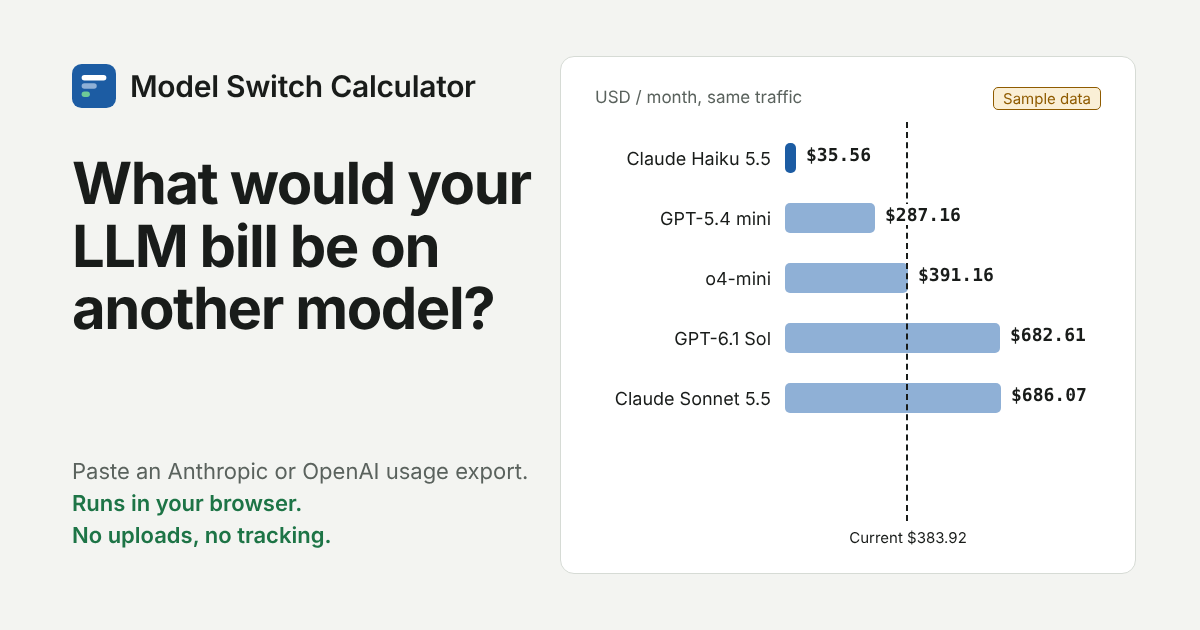
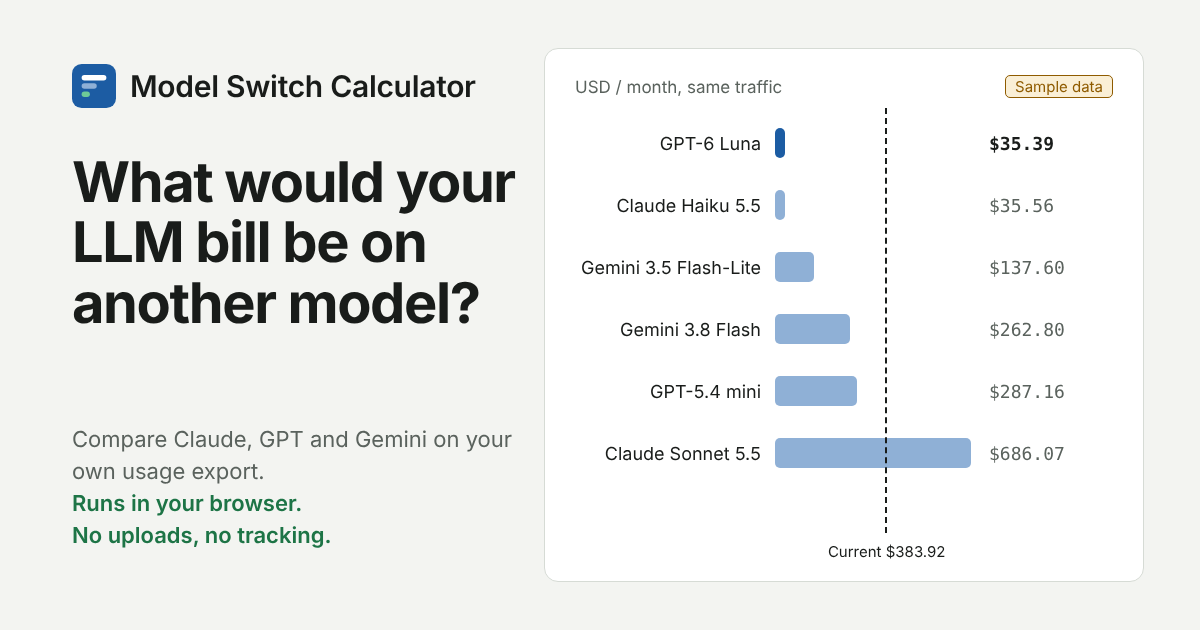
calc: phone-width compare table, chart label collisions, cheapest ties, v2 og.png
- Under 480px the compare table keeps model, cost and % visible
- Value labels no longer cross the Current line; long names shortened on phones
- Every model tied at the minimum gets Cheapest; none when usage is 0
- og.png re-rendered with v2 sample numbers (incl. Gemini)
- Clearer long-context note; o3/o4-mini no longer called older

Claude-Session: https://claude.ai/code/session_015XigFVCQSSHY1yMdRTDpZK

diff --git a/calc/index.html b/calc/index.html
@@ -150,6 +150,7 @@ td input[type=number]{width:84px;font:inherit;font-family:var(--font-mono);font-
 .chart .grid{stroke:var(--line-soft)}
 .chart .barr{fill:var(--bar)} .chart .barr.best{fill:var(--accent)}
 .chart .cur{stroke:var(--fg);stroke-dasharray:4 3}
+.chart text.val{paint-order:stroke;stroke:var(--surface);stroke-width:3px;stroke-linejoin:round}
 .chart .hit:hover+.barr,.chart g.b:hover .barr{opacity:.85}
 .notes{font-size:.86rem;color:var(--muted);padding-left:1.2em;margin:8px 0 0}
 .notes li{margin-bottom:4px}
@@ -197,8 +198,18 @@ details.legacy[open] summary{margin-bottom:8px}
 footer{color:var(--muted);font-size:.82rem;margin-top:36px;border-top:1px solid var(--line);padding-top:16px}
 footer p{margin:0 0 4px}
 @media (prefers-reduced-motion: reduce){html{scroll-behavior:auto}*{transition:none!important;animation:none!important}}
+.badge.ph{display:none}
 @media (max-width:480px){
   section.card{padding:14px}
+  #compare-table .sec{display:none}
+  #compare-table .badge.ph{display:inline-block}
+  #compare-table th,#compare-table td{padding:6px 6px}
+  #compare-table .mcell{white-space:normal;min-width:0}
+  #compare-table th{white-space:normal}
+  #compare-table{font-size:.84rem}
+  #compare-table th,#compare-table td{padding:6px 4px}
+  #compare-table td.num{font-size:.8rem}
+  #compare-table .mcell .badge{margin-top:2px}
   dl.stats{grid-template-columns:minmax(0,1fr)}
   .headline .v{font-size:1.15rem}
   .cta{width:100%;text-align:center}
@@ -315,7 +326,7 @@ footer p{margin:0 0 4px}
     </fieldset>
     <div class="tablewrap"><table id="price-table"></table></div>
     <details id="legacy-details" class="legacy">
-      <summary id="legacy-summary">Older models (<span id="legacy-count">0</span>)</summary>
+      <summary id="legacy-summary">More models (<span id="legacy-count">0</span>)</summary>
       <div class="tablewrap"><table id="price-table-legacy"></table></div>
     </details>
     <ul class="notes" id="price-notes"></ul>
@@ -690,7 +701,7 @@ const PRICES = {
       "cacheWrite": null,
       "status": "verified",
       "source": "https://developers.openai.com/api/docs/pricing",
-      "note": "o-series reasoning model (older)."
+      "note": "o-series reasoning model."
     },
     {
       "provider": "openai",
@@ -702,7 +713,7 @@ const PRICES = {
       "cacheWrite": null,
       "status": "verified",
       "source": "https://developers.openai.com/api/docs/pricing",
-      "note": "o-series reasoning model (older)."
+      "note": "o-series reasoning model."
     },
     {
       "provider": "google",
@@ -841,7 +852,7 @@ const PRICES = {
     "Anthropic prices were read today from the official pricing page (platform.claude.com/docs/en/about-claude/pricing). Model IDs come from platform.claude.com/docs/en/about-claude/models/overview and model-ids-and-versions. The claude-api skill was not used as a price source.",
     "Anthropic cacheWrite = 5-minute cache write (1.25x input). 1h write = 2x input. Cache read = 0.1x input by default, 0.05x on Opus 5.5 / Sonnet 5.5, and 0.025x on Fable 5.1 / Mythos 5.1.",
     "Anthropic Batch API: 50% off input and output. Stacks with caching. Fast mode is not available with Batch.",
-    "Anthropic long context: Claude 4.6+ models (except Haiku 5.5) get the full 1M context at standard pricing. Haiku 5.5 has two price tiers split at 100K prompt tokens.",
+    "Anthropic long context: Claude 4.6 and later models get the full 1M-token context window at their standard per-token price, with no long-context surcharge (a 900K-token request is billed at the same rate as a 9K-token request). Claude Haiku 5.5 is the exception: it has two price tiers, and a request whose prompt (including cache reads and writes) is over 100K tokens pays the higher tier.",
     "Anthropic inference_geo='us' applies a 1.1x multiplier (4.6+ models).",
     "Also listed but not included above: Claude Mythos 5.1 / Mythos 5 (limited availability, same prices as Fable 5.1 / Fable 5), Claude Fable 5 ($10/$50, cache read $1), and retired models Opus 4.1/4, Sonnet 4, Haiku 3.5.",
     "OpenAI prices were read today from the raw HTML of developers.openai.com/api/docs/pricing (platform.openai.com/docs/pricing redirects there, 301). The WebFetch summary had mis-transcribed the long-context columns; the figures here come from the raw data.",
@@ -1217,8 +1228,15 @@ const Logic = (() => {
       scenarios.push({ model: m, price: p, cost, delta, pct, isCurrent: currentIds.has(m.id) });
     }
     scenarios.sort((a, b) => a.cost - b.cost);
+    // Cheapest: every scenario whose cost equals the minimum at the displayed precision (cents),
+    // so models that show the same price all get the badge. None when there is no usage at all.
+    const cents = (v) => Math.round(v * 100);
+    const hasUsage = sumTok(tokens) > 0;
+    const minCents = scenarios.length ? cents(scenarios[0].cost) : null;
+    scenarios.forEach((sc) => { sc.isCheapest = hasUsage && cents(sc.cost) === minCents; });
+    const cheapestAll = scenarios.filter((sc) => sc.isCheapest);
     return { factor: f, tokens, current: breakdown.length ? current : null, currentComplete, coverage, unpricedModels, breakdown, scenarios, excluded,
-      cheapest: scenarios[0] || null };
+      cheapest: cheapestAll[0] || null, cheapestAll };
   }
 
   return { normKey, normModel, inferProvider, toNum, toDay, parseDelimited, classifyHeader, parseUsage, aggregate,
@@ -1510,24 +1528,26 @@ if (typeof document !== "undefined") (() => {
     const best = r.cheapest;
     $("headline").innerHTML =
       `<div><div class="k">Current cost${r.currentComplete ? "" : " (priced models only)"}</div><div class="v">${fmtUSD(cur)}</div></div>` +
-      (best ? `<div><div class="k">Cheapest option</div><div class="v">${esc(best.model.name)} ${fmtUSD(best.cost)}</div></div>` : "") +
+      (best ? `<div><div class="k">Cheapest option${r.cheapestAll.length > 1 ? ` (${r.cheapestAll.length}-way tie)` : ""}</div><div class="v">${r.cheapestAll.map((x) => esc(x.model.name)).join(" / ")} ${fmtUSD(best.cost)}</div></div>` : "") +
       (best && best.delta != null ? `<div><div class="k">Difference if you switch to it</div><div class="v ${best.delta < 0 ? "neg" : best.delta > 0 ? "pos" : ""}">${fmtSigned(best.delta)} (${fmtPct(best.pct)})</div></div>` : "");
 
     // compare table
-    let html = `<thead><tr><th class="num">#</th><th>Target model</th><th class="num">Cost</th><th class="num">vs current</th><th class="num">vs current (%)</th><th>Price</th></tr></thead><tbody>`;
+    // .sec columns (#, vs current $, Price) are hidden at phone width so Cost and % stay visible
+    let html = `<thead><tr><th class="num sec">#</th><th>Target model</th><th class="num">Cost</th><th class="num sec">vs current</th><th class="num">vs current (%)</th><th class="sec">Price</th></tr></thead><tbody>`;
     r.scenarios.forEach((s, i) => {
-      const cls = [s === best ? "cheapest" : "", s.isCurrent ? "current" : ""].join(" ").trim();
-      const tags = (s === best ? ` <span class="badge ok">Cheapest</span>` : "") + (s.isCurrent ? ` <span class="badge acc">In use now</span>` : "");
-      html += `<tr class="${cls}"><td class="num">${i + 1}</td><td><span class="prov">${esc(PROV[s.model.provider] || s.model.provider)}</span><span class="mname">${esc(s.model.name)}</span>${tags}</td>` +
-        `<td class="num">${fmtUSD(s.cost)}</td><td class="num ${s.delta < 0 ? "neg" : s.delta > 0 ? "pos" : ""}">${fmtSigned(s.delta)}</td>` +
+      const cls = [s.isCheapest ? "cheapest" : "", s.isCurrent ? "current" : ""].join(" ").trim();
+      const tags = (s.isCheapest ? ` <span class="badge ok">Cheapest</span>` : "") + (s.isCurrent ? ` <span class="badge acc">In use now</span>` : "") +
+        (s.price.kind === "manual" ? ` <span class="badge warn ph">Manual</span>` : "");
+      html += `<tr class="${cls}"><td class="num sec">${i + 1}</td><td class="mcell"><span class="prov">${esc(PROV[s.model.provider] || s.model.provider)}</span><span class="mname">${esc(s.model.name)}</span>${tags}</td>` +
+        `<td class="num">${fmtUSD(s.cost)}</td><td class="num sec ${s.delta < 0 ? "neg" : s.delta > 0 ? "pos" : ""}">${fmtSigned(s.delta)}</td>` +
         `<td class="num ${s.pct < 0 ? "neg" : s.pct > 0 ? "pos" : ""}">${fmtPct(s.pct)}</td>` +
-        `<td>${s.price.kind === "manual" ? '<span class="badge warn">Manual</span>' : '<span class="badge ok">Verified</span>'}</td></tr>`;
+        `<td class="sec">${s.price.kind === "manual" ? '<span class="badge warn">Manual</span>' : '<span class="badge ok">Verified</span>'}</td></tr>`;
     });
     r.excluded.forEach((m) => {
-      html += `<tr class="excluded"><td class="num">—</td><td><span class="prov">${esc(PROV[m.provider] || m.provider)}</span><span class="mname">${esc(m.name)}</span></td>` +
-        `<td class="num">Unverified</td><td class="num">—</td><td class="num">—</td><td><span class="badge warn">Unverified · excluded</span></td></tr>`;
+      html += `<tr class="excluded"><td class="num sec">—</td><td class="mcell"><span class="prov">${esc(PROV[m.provider] || m.provider)}</span><span class="mname">${esc(m.name)}</span> <span class="badge warn ph">Unverified</span></td>` +
+        `<td class="num">Unverified</td><td class="num sec">—</td><td class="num">—</td><td class="sec"><span class="badge warn">Unverified · excluded</span></td></tr>`;
     });
-    if (!r.scenarios.length && !r.excluded.length) html += `<tr><td colspan="6">No models selected. Tick “Compare” in step 05.</td></tr>`;
+    if (!r.scenarios.length && !r.excluded.length) html += `<tr><td colspan="6" class="mcell">No models selected. Tick “Compare” in step 05.</td></tr>`;
     $("compare-table").innerHTML = html + "</tbody>";
 
     renderChart(r);
@@ -1552,7 +1572,7 @@ if (typeof document !== "undefined") (() => {
     const rows = r.scenarios;
     if (!rows.length) { el.innerHTML = ""; return; }
     const W = Math.max(300, Math.round(el.clientWidth || 720));
-    const labelW = Math.min(W < 520 ? 118 : 200, Math.max(100, ...rows.map((s) => s.model.name.length * 7.2 + 12))), valW = W < 520 ? 74 : 92, rowH = 26, top = 22, bottom = 26;
+    const labelW = Math.min(W < 520 ? 118 : 200, Math.max(100, ...rows.map((s) => s.model.name.length * 7.2 + 12))), valW = W < 520 ? 80 : 92, rowH = 26, top = 22, bottom = 26;
     const H = top + rows.length * rowH + bottom;
     const rawMax = Math.max(...rows.map((s) => s.cost), r.currentComplete && r.current ? r.current : 0) || 1;
     const want = W < 520 ? 2 : 4;
@@ -1568,20 +1588,33 @@ if (typeof document !== "undefined") (() => {
       s += `<line class="grid" x1="${gx}" x2="${gx}" y1="${top - 6}" y2="${H - bottom}" stroke-width="1"/>`;
       s += `<text class="sub" x="${gx}" y="${top - 10}" text-anchor="${i === 0 ? "start" : i === ticks ? "end" : "middle"}">${esc(compactUSD(v))}</text>`;
     }
-    if (r.currentComplete && r.current != null) {
-      const cx = x(r.current);
-      s += `<line class="cur" x1="${cx}" x2="${cx}" y1="${top - 4}" y2="${H - bottom + 4}" stroke-width="1.5"/>`;
-      s += `<text class="lbl" x="${cx}" y="${H - 8}" text-anchor="${cx > W - 90 ? "end" : cx < labelW + 60 ? "start" : "middle"}" font-size="11">Current ${esc(fmtUSD(r.current))}</text>`;
+    // The dashed "Current" line sits behind the bars; its label goes in the bottom margin,
+    // below the last row. Value labels that would cross the line are moved to its right.
+    const fs = W < 520 ? 11 : 12;
+    const textW = (str) => str.length * fs * 0.62 + 2; // conservative estimate for tabular digits
+    const cx = r.currentComplete && r.current != null ? x(r.current) : null;
+    if (cx != null) {
+      s += `<line class="cur" x1="${cx}" x2="${cx}" y1="${top - 4}" y2="${H - bottom + 2}" stroke-width="1.5"/>`;
+      const lab = `Current ${fmtUSD(r.current)}`, lw = textW(lab) * 11 / fs;
+      const lx = Math.min(Math.max(cx, lw / 2 + 2), W - lw / 2 - 2);
+      s += `<text class="lbl" x="${lx}" y="${H - 6}" text-anchor="middle" font-size="11">${esc(lab)}</text>`;
     }
     rows.forEach((sc, i) => {
       const y = top + i * rowH;
       const w = Math.max(2, x(sc.cost) - labelW);
-      const best = sc === r.cheapest;
+      const best = !!sc.isCheapest;
+      const val = fmtUSD(sc.cost), vw = textW(val);
+      let vx = labelW + w + 6;
+      if (cx != null && vx - 3 <= cx + 1 && vx + vw + 3 >= cx - 1) vx = cx + 6; // would collide with the line
+      if (vx + vw > W) vx = Math.max(labelW + 2, W - vw);
       s += `<g class="b"><title>${esc(sc.model.name)}: ${esc(fmtUSD(sc.cost))}${sc.delta != null ? " (vs current " + esc(fmtSigned(sc.delta)) + ")" : ""}</title>`;
       s += `<rect x="0" y="${y}" width="${W}" height="${rowH}" fill="transparent"/>`;
-      s += `<text class="lbl" font-size="${W < 520 ? 11 : 12}" x="${labelW - 8}" y="${y + rowH / 2 + 4}" text-anchor="end"${best ? ' font-weight="600"' : ""}>${esc(sc.model.name)}</text>`;
+      // names that don't fit the label column are shortened with an ellipsis (full name in <title>)
+      const maxCh = Math.floor((labelW - 12) / (fs * 0.56));
+      const nm = sc.model.name.length > maxCh ? sc.model.name.slice(0, Math.max(1, maxCh - 1)).trimEnd() + "…" : sc.model.name;
+      s += `<text class="lbl" font-size="${fs}" x="${labelW - 8}" y="${y + rowH / 2 + 4}" text-anchor="end"${best ? ' font-weight="600"' : ""}>${esc(nm)}</text>`;
       s += `<rect class="barr${best ? " best" : ""}" x="${labelW}" y="${y + 5}" width="${w}" height="${rowH - 10}" rx="3"/>`;
-      s += `<text class="${best ? "lbl" : "sub"}" font-size="${W < 520 ? 11 : 12}" x="${labelW + w + 6}" y="${y + rowH / 2 + 4}"${best ? ' font-weight="600"' : ""}>${esc(fmtUSD(sc.cost))}</text></g>`;
+      s += `<text class="val ${best ? "lbl" : "sub"}" font-size="${fs}" x="${vx}" y="${y + rowH / 2 + 4}"${best ? ' font-weight="600"' : ""}>${esc(val)}</text></g>`;
     });
     el.innerHTML = s + "</svg>";
   }
@@ -1656,7 +1689,7 @@ if (typeof document !== "undefined") (() => {
     const models = PRICES.models || [];
     const main = models.filter(isMain), older = models.filter((m) => !isMain(m));
     let html = `<tr class="group"><th colspan="8" scope="rowgroup">Current models (${main.length})</th></tr>` + main.map(row).join("");
-    if (older.length) html += `<tr class="group"><th colspan="8" scope="rowgroup">Older models (${older.length})</th></tr>` + older.map(row).join("");
+    if (older.length) html += `<tr class="group"><th colspan="8" scope="rowgroup">More models (${older.length})</th></tr>` + older.map(row).join("");
     $("static-prices-body").innerHTML = html;
     const raw = Array.isArray(PRICES.notes) ? PRICES.notes : PRICES.notes ? [PRICES.notes] : [];
     $("research-details").hidden = raw.length === 0;

diff --git a/calc/og-template.html b/calc/og-template.html
@@ -1,43 +1,49 @@
 <!doctype html>
-<!-- Source for og.png (1200x630). Not linked from the site. Re-render with Playwright:
-     page.setViewportSize({width:1200,height:630}); page.goto('file://.../og-template.html'); page.screenshot({path:'og.png'}) -->
+<!-- Source for og.png (1200x630). Not linked from the site. Re-render with Playwright (Chromium):
+     page.setViewportSize({width:1200,height:630}); page.goto('file://.../og-template.html'); page.screenshot({path:'og.png'})
+     Numbers = the page's default view of the built-in Anthropic sample (30-day normalised, keep cache ratio, default
+     models), prices checked 2026-10-09. Rows are a subset of that comparison; the cheapest bar uses the page's chart
+     colour for the cheapest model (--accent #1c5ca3). Values sit in their own column so the dashed "Current" line
+     never crosses them. Scale: 200px = $700. -->
 <html lang="en"><head><meta charset="utf-8"><title>og.png template</title>
 <style>
 *{box-sizing:border-box}
 html,body{margin:0;width:1200px;height:630px;overflow:hidden}
 body{background:#f3f4f1;color:#191c1a;font-family:Inter,"IBM Plex Sans",system-ui,sans-serif;display:flex}
-.l{width:540px;padding:64px 0 56px 72px;display:flex;flex-direction:column}
+.l{width:520px;padding:64px 0 56px 72px;display:flex;flex-direction:column}
 .brand{display:flex;align-items:center;gap:14px;font-size:30px;font-weight:600;letter-spacing:-.01em}
-h1{font-size:58px;line-height:1.08;margin:44px 0 0;letter-spacing:-.025em;font-weight:700}
+h1{font-size:56px;line-height:1.08;margin:44px 0 0;letter-spacing:-.025em;font-weight:700}
 .sub{margin-top:auto;font-size:22px;color:#5a625d;line-height:1.45}
 .sub b{color:#1d7446;font-weight:600}
-.r{flex:1;margin:56px 64px 56px 20px;background:#fff;border:1px solid #d6dbd5;border-radius:14px;padding:30px 34px;display:flex;flex-direction:column}
-.cap{display:flex;justify-content:space-between;font-size:17px;color:#5a625d;margin-bottom:18px}
+.r{flex:1;margin:48px 56px 48px 24px;background:#fff;border:1px solid #d6dbd5;border-radius:14px;padding:26px 30px 22px;display:flex;flex-direction:column}
+.cap{display:flex;justify-content:space-between;align-items:center;font-size:17px;color:#5a625d;margin-bottom:14px}
 .tag{color:#8f5b00;background:#faefd6;border:1px solid #8f5b00;border-radius:5px;padding:1px 9px;font-size:15px}
-.chart{position:relative;flex:1}
-.row{display:grid;grid-template-columns:190px 1fr;align-items:center;height:60px}
+.chart{position:relative;flex:1;padding-bottom:30px}
+.row{display:grid;grid-template-columns:200px 200px 1fr;align-items:center;height:62px}
 .name{font-size:18px;white-space:nowrap;text-align:right;padding-right:14px}
-.bar{height:30px;border-radius:5px;background:#8fb0d6;position:relative}
+.track{position:relative;height:30px}
+.bar{height:30px;border-radius:5px;background:#8fb0d6;min-width:3px}
 .bar.best{background:#1c5ca3}
-.val{position:absolute;left:calc(100% + 6px);top:1px;background:#fff;padding:0 4px;z-index:1;font:600 18px "IBM Plex Mono",ui-monospace,monospace;white-space:nowrap}
-.cur{position:absolute;top:-6px;bottom:22px;border-left:2px dashed #191c1a}
-.cur span{position:absolute;bottom:-26px;left:-60px;width:120px;text-align:center;font-size:15px}
+.val{padding-left:14px;font:500 18px "IBM Plex Mono",ui-monospace,monospace;white-space:nowrap;color:#5a625d}
+.val.best{color:#191c1a;font-weight:700}
+.cur{position:absolute;top:-4px;bottom:26px;border-left:2px dashed #191c1a}
+.cur span{position:absolute;bottom:-28px;left:-70px;width:140px;text-align:center;font-size:15px;white-space:nowrap}
 </style></head><body>
 <div class="l">
   <div class="brand"><svg width="44" height="44" viewBox="0 0 32 32"><rect width="32" height="32" rx="7" fill="#1c5ca3"/><rect x="7" y="8" width="18" height="4" rx="2" fill="#fff"/><rect x="7" y="14" width="11" height="4" rx="2" fill="#8fb0d6"/><rect x="7" y="20" width="6" height="4" rx="2" fill="#6fcb97"/></svg>Model Switch Calculator</div>
   <h1>What would your LLM bill be on another model?</h1>
-  <p class="sub">Paste an Anthropic or OpenAI usage export.<br><b>Runs in your browser.<br>No uploads, no tracking.</b></p>
+  <p class="sub">Compare Claude, GPT and Gemini on your own usage export.<br><b>Runs in your browser.<br>No uploads, no tracking.</b></p>
 </div>
 <div class="r">
   <div class="cap"><span>USD / month, same traffic</span><span class="tag">Sample data</span></div>
-  <!-- Values from the built-in Anthropic sample, prices checked 2026-10-08. Scale: 220px = $700 -->
   <div class="chart">
-    <div class="row"><div class="name">Claude Haiku 5.5</div><div><div class="bar best" style="width:11px"><span class="val">$35.56</span></div></div></div>
-    <div class="row"><div class="name">GPT-5.4 mini</div><div><div class="bar" style="width:90px"><span class="val">$287.16</span></div></div></div>
-    <div class="row"><div class="name">o4-mini</div><div><div class="bar" style="width:123px"><span class="val">$391.16</span></div></div></div>
-    <div class="row"><div class="name">GPT-6.1 Sol</div><div><div class="bar" style="width:215px"><span class="val">$682.61</span></div></div></div>
-    <div class="row"><div class="name">Claude Sonnet 5.5</div><div><div class="bar" style="width:216px"><span class="val">$686.07</span></div></div></div>
-    <div class="cur" style="left:calc(190px + 121px)"><span>Current $383.92</span></div>
+    <div class="row"><div class="name">GPT-6 Luna</div><div class="track"><div class="bar best" style="width:10.1px"></div></div><div class="val best" data-model="GPT-6 Luna">$35.39</div></div>
+    <div class="row"><div class="name">Claude Haiku 5.5</div><div class="track"><div class="bar" style="width:10.2px"></div></div><div class="val" data-model="Claude Haiku 5.5">$35.56</div></div>
+    <div class="row"><div class="name">Gemini 3.5 Flash-Lite</div><div class="track"><div class="bar" style="width:39.3px"></div></div><div class="val" data-model="Gemini 3.5 Flash-Lite">$137.60</div></div>
+    <div class="row"><div class="name">Gemini 3.8 Flash</div><div class="track"><div class="bar" style="width:75.1px"></div></div><div class="val" data-model="Gemini 3.8 Flash">$262.80</div></div>
+    <div class="row"><div class="name">GPT-5.4 mini</div><div class="track"><div class="bar" style="width:82.0px"></div></div><div class="val" data-model="GPT-5.4 mini">$287.16</div></div>
+    <div class="row"><div class="name">Claude Sonnet 5.5</div><div class="track"><div class="bar" style="width:196.0px"></div></div><div class="val" data-model="Claude Sonnet 5.5">$686.07</div></div>
+    <div class="cur" data-current="383.92" style="left:calc(200px + 109.7px)"><span>Current $383.92</span></div>
   </div>
 </div>
 </body></html>

diff --git a/calc/tests/logic.test.js b/calc/tests/logic.test.js
@@ -297,5 +297,28 @@ T("Bedrock id with date and version suffix matches", () => {
 });
 T("zone-less text date keeps its calendar day", () => assert.equal(Logic.toDay("09/01/2026"), "2026-09-01"));
 
+/* ---------------- cheapest: ties and zero usage ---------------- */
+T("cheapest: every model at the minimum (to the cent) is marked; OpenAI sample ties Haiku 5.5 and GPT-6 Luna", () => {
+  const a = Logic.aggregate(Logic.parseUsage(Samples.openai).rows);
+  const r = Logic.compute(a, PRICES, { mode: "30d", keepCache: true, manual: {}, selected: new Set(["claude-haiku-5-5", "gpt-6-luna", "gpt-5.4-mini"]) });
+  const ids = r.cheapestAll.map((x) => x.model.id).sort();
+  assert.deepEqual(plain(ids), ["claude-haiku-5-5", "gpt-6-luna"]);
+  assert(r.scenarios.filter((x) => x.isCheapest).length === 2);
+  assert.equal(r.cheapest, r.cheapestAll[0]);
+  const min = Math.round(r.scenarios[0].cost * 100);
+  r.scenarios.forEach((x) => assert.equal(x.isCheapest, Math.round(x.cost * 100) === min, x.model.id));
+});
+T("cheapest: single winner on the Anthropic sample with default models (GPT-6 Luna $35.39)", () => {
+  const r = Logic.compute(aA, PRICES, { mode: "30d", keepCache: true, manual: {}, selected: new Set([...MAIN, "gemini-3.8-flash", "gemini-3.5-flash-lite", "gemini-3.1-pro-preview"]) });
+  assert.equal(r.cheapestAll.length, 1); assert.equal(r.cheapest.model.id, "gpt-6-luna"); assert.equal(r.cheapest.cost.toFixed(2), "35.39");
+});
+T("cheapest: none when total usage is 0", () => {
+  const z = { unc: 0, cw5: 0, cw1: 0, cr: 0, out: 0 };
+  const agg = { totals: { ...z }, byModel: [{ model: "gpt-6-luna", provider: "openai", tok: { ...z } }], minDate: null, maxDate: null, spanDays: null, activeDays: 0, rowCount: 1 };
+  const r = Logic.compute(agg, PRICES, { mode: "raw", keepCache: true, manual: {}, selected: null });
+  assert(r.scenarios.length > 0); assert.equal(r.cheapest, null); assert.equal(r.cheapestAll.length, 0);
+  assert(r.scenarios.every((x) => x.isCheapest === false));
+});
+
 console.log(`\npass ${pass} fail ${fail}`);
 process.exit(fail ? 1 : 0);

diff --git a/calc/README.md b/calc/README.md
@@ -6,7 +6,7 @@ Live URL: https://masahiro20.github.io/new-project/calc/ (served from a copy on 
 
 ## v2 changes (2026-10-09)
 
-- **Google Gemini models.** 11 Gemini rows (provider `google`) from the official Gemini API pricing page, Paid tier, Standard, text/image/video input. Three are main models (pre-selected): Gemini 3.8 Flash, Gemini 3.5 Flash-Lite and Gemini 3.1 Pro Preview. The other eight are under "Older models". Pro models use the tier for prompts of 200K tokens or less. Gemini 3.8/3.7/3.6 Flash prices are promotional through 2026-12-31.
+- **Google Gemini models.** 11 Gemini rows (provider `google`) from the official Gemini API pricing page, Paid tier, Standard, text/image/video input. Three are main models (pre-selected): Gemini 3.8 Flash, Gemini 3.5 Flash-Lite and Gemini 3.1 Pro Preview. The other eight are under "More models". Pro models use the tier for prompts of 200K tokens or less. Gemini 3.8/3.7/3.6 Flash prices are promotional through 2026-12-31.
 - **Gemini cache assumption.** Gemini has a cached-token price (used as `cacheRead`) and an hourly storage price, but no cache-write price. Cache-write tokens on Gemini targets are charged at the input price, and storage is not modelled. `cacheWrite` is `null` on every Gemini row.
 - **Google provider.** Model names starting with `gemini` (or `models/gemini`) are detected as Google. There is no dedicated Gemini export parser: Gemini usage goes through the generic CSV (see the FAQ). Step 05 has a provider filter: All / Anthropic / OpenAI / Google.
 - **Share link.** "Copy share link" (step 03) puts settings and aggregate totals in the URL hash: `#s=<base64url(JSON)>`, with `v: 1`. A "What's in this link" disclosure shows the exact JSON and warns that the totals reveal usage volume. Opening a link restores that state, shows a "Loaded from shared link" badge, and offers a "Clear shared link" button. Invalid links show an error and load the sample instead.
@@ -63,7 +63,7 @@ Details:
 
 - Change the numbers, `source`, `note` and `checkedOn`. Values are USD per 1M tokens and `null` means not listed. Every "Checked …" date on the page is filled in from `PRICES.checkedOn`.
 - A row counts toward totals only when it has `status: "verified"` and non-null `input`/`output`. Every other row is shown as "Unverified", and users can type a price into it.
-- Models listed in `MAIN_IDS` (UI code) are pre-selected and shown first. All other models go under "Older models".
+- Models listed in `MAIN_IDS` (UI code) are pre-selected and shown first. All other models go under "More models" (a neutral label: it does not claim a model is older or legacy unless its note says the provider page does).
 - If a model has a different price tier (e.g. Haiku 5.5 over 100K tokens, OpenAI over 272K, Gemini Pro over 200K), update the copy in "How it works" and the notes in step 05.
 - Gemini rows: keep `cacheWrite: null` (Gemini lists no cache-write price). Use the text input price. Gemini 3.8/3.7/3.6 Flash prices change on 2027-01-01 (to $1.50 / $7.50 / cached $0.15). Update them then.
 - Run `node calc/tests/logic.test.js`. One test checks that the Anthropic and OpenAI prices match `signal-lab/model-switch-calculator/index.html`. The source tool has no Gemini rows, so Google rows and dates are not compared. Update both files together.

diff --git a/signal-lab/docs/decisions.md b/signal-lab/docs/decisions.md
@@ -6,3 +6,5 @@
 - 2026-10-09 決定：Anthropic と OpenAI の 24 行を公式ページで再確認したところ、価格の変更はなかった。数値はそのままにして、PRICES.checkedOn だけ 2026-10-09 に更新する。理由：今日公式ページで確認した内容だけを verified とする方針のため。
 - 2026-10-09 決定：共有リンクの形式は URL ハッシュ `#s=<base64url(JSON)>` とし、バージョンは v:1 とする。中身は設定（期間、キャッシュ維持、比較モデル、手入力価格）と集計トークン量（合計、価格表 ID ごとの内訳、価格表にないモデルを合算した "other"、日数）だけにする。貼り付けた生データ、日付、価格表にないモデル名は入れない。理由：ハッシュはサーバーに送られず、CSP（通信なし）とも両立するため。また、利用量が分かることを共有前に開示して同意を得られるため。
 - 2026-10-09 決定：共有リンクの復元時は、ハッシュ長 8000 文字まで、トークン 1e15 まで、日数 3660 まで、価格 10000 USD/1M トークンまでに制限する。リストは 200 件まで、未知の ID は無視（トークンは "other" に移す）し、負の数・非有限値・文字列の数値は捨てる。復号した文字列は価格表 ID の照合にだけ使い、HTML には出さない。理由：悪意あるリンクによる HTML 注入、極端な値、プロトタイプ汚染を防ぐため。
+- 2026-10-09 決定：「Cheapest」は表示精度（セント単位）で最小額に並ぶすべてのモデルに付け、総利用量が 0 のときはどのモデルにも付けない。理由：同額で表示されるモデルの片方だけにバッジが付くと誤解を招き、利用量 0 では「最安」に意味がないため。
+- 2026-10-09 決定：価格表で主要モデル以外のグループ名を「Older models」から「More models」に変える。理由：o3／o4-mini などについて、公式価格ページが「旧モデル」と表記していないため。
